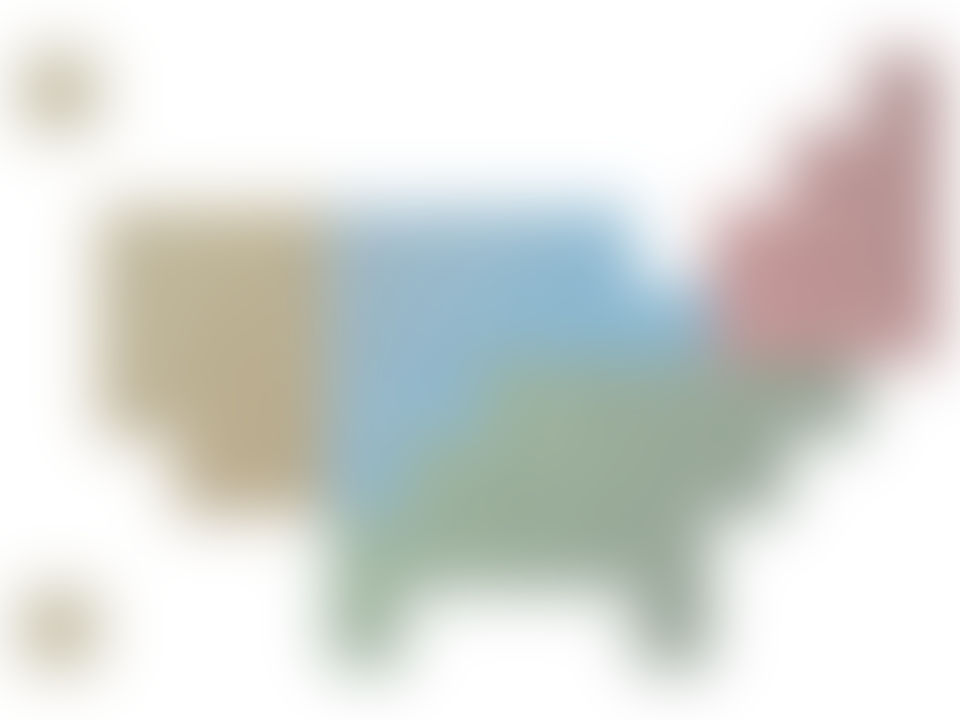
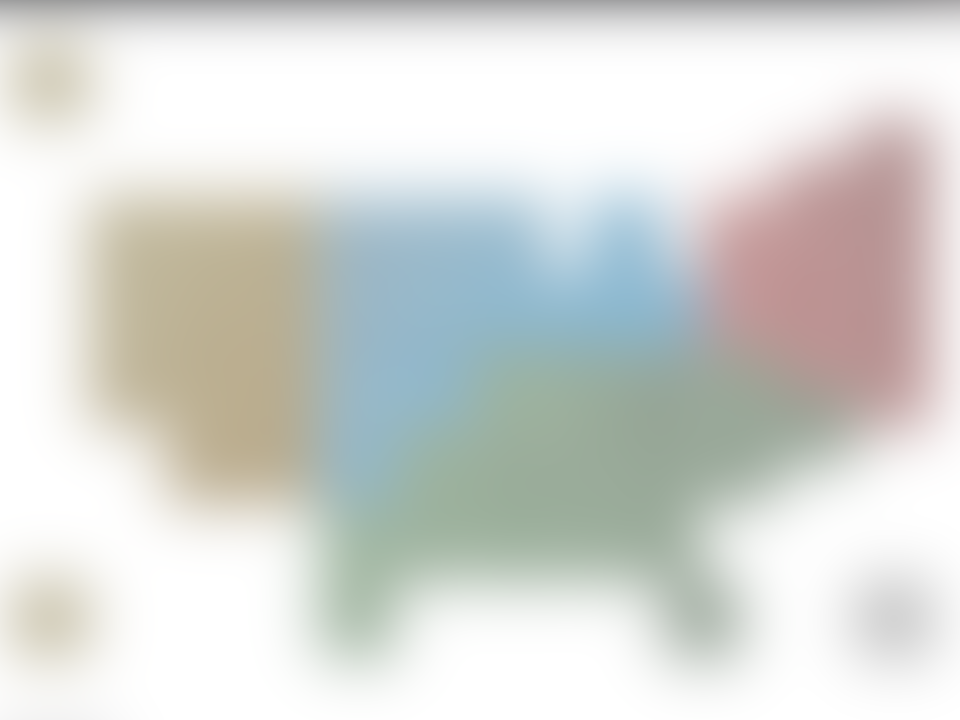
updated state layout

diff --git a/statelayout.js b/statelayout.js
@@ -28,6 +28,7 @@ let statePopulations = {
     'OR': 4029000,
     'OK': 3911000,
     'CT': 3590000,
+    'PR': 3194000,
     'IA': 3124000,
     'UT': 2996000,
     'MS': 2992000,
@@ -304,16 +305,16 @@ class StateLayout {
     addCharts() {
         var stateTileCoords = [
             {state:'AK', x:0, y:0},
-            {state:'AL', x:6, y:6},
+            {state:'AL', x:7, y:6},
             {state:'AR', x:5, y:5},
             {state:'AZ', x:2, y:5},
             {state:'CA', x:1, y:4},
             {state:'CO', x:3, y:4},
-            {state:'CT', x:10, y:3},
-            {state:'DC', x:9, y:5},
-            {state:'DE', x:10, y:4},
-            {state:'FL', x:8, y:7},
-            {state:'GA', x:7, y:6},
+            {state:'CT', x:10, y:3.5},
+            {state:'DC', x:8, y:4},
+            {state:'DE', x:9, y:4},
+            {state:'FL', x:8.5, y:7},
+            {state:'GA', x:8, y:6},
             {state:'HI', x:0, y:7},
             {state:'IA', x:5, y:3},
             {state:'ID', x:2, y:2},
@@ -322,19 +323,19 @@ class StateLayout {
             {state:'KS', x:4, y:5},
             {state:'KY', x:6, y:4},
             {state:'LA', x:5, y:6},
-            {state:'MA', x:11, y:2},
-            {state:'MD', x:9, y:4},
-            {state:'ME', x:11, y:0},
-            {state:'MI', x:7, y:2},
+            {state:'MA', x:11, y:3},
+            {state:'MD', x:8, y:5},
+            {state:'ME', x:11, y:1},
+            {state:'MI', x:7.5, y:2},
             {state:'MN', x:5, y:2},
             {state:'MO', x:5, y:4},
-            {state:'MS', x:6, y:5},
+            {state:'MS', x:6, y:6},
             {state:'MT', x:3, y:2},
-            {state:'NC', x:8, y:5},
+            {state:'NC', x:10, y:4.5},
             {state:'ND', x:4, y:2},
             {state:'NE', x:4, y:4},
-            {state:'NH', x:11, y:1},
-            {state:'NJ', x:10, y:2},
+            {state:'NH', x:11, y:2},
+            {state:'NJ', x:10, y:2.5},
             {state:'NM', x:3, y:5},
             {state:'NV', x:2, y:3},
             {state:'NY', x:9, y:2},
@@ -342,14 +343,15 @@ class StateLayout {
             {state:'OK', x:4, y:6},
             {state:'OR', x:1, y:3},
             {state:'PA', x:9, y:3},
-            {state:'RI', x:11, y:3},
-            {state:'SC', x:8, y:6},
+            {state:'PR', x:11, y: 7},
+            {state:'RI', x:11, y:4},
+            {state:'SC', x:9, y:5},
             {state:'SD', x:4, y:3},
-            {state:'TN', x:7, y:5},
+            {state:'TN', x:6, y:5},
             {state:'TX', x:4, y:7},
             {state:'UT', x:2, y:4},
-            {state:'VA', x:8, y:4},
-            {state:'VT', x:10, y:1},
+            {state:'VA', x:7, y:5},
+            {state:'VT', x:10, y:1.5},
             {state:'WA', x:1, y:2},
             {state:'WI', x:6, y:2},
             {state:'WV', x:7, y:4},
